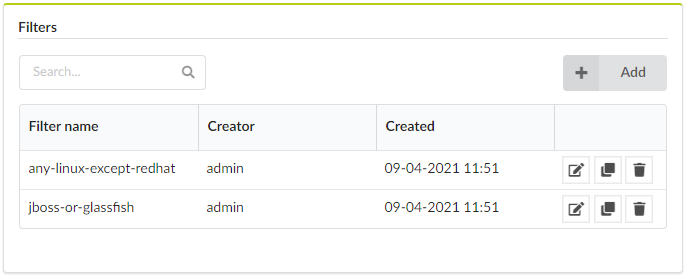
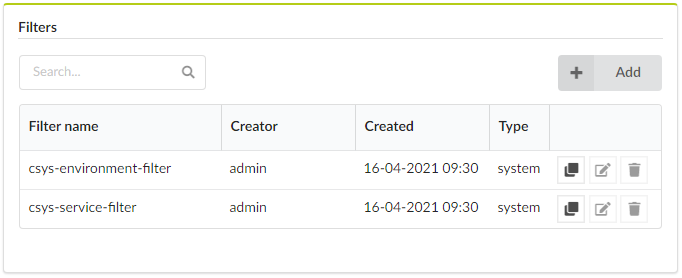
Added support for system filters

diff --git a/test/cypress/integration/widgets/filters_spec.ts b/test/cypress/integration/widgets/filters_spec.ts
@@ -21,6 +21,10 @@ describe('Filters widget', () => {
         cy.get('[name=ruleValue]').click().find('input').type(`${value}{enter}`).blur();
     }
 
+    function getFilterIdInput() {
+        return cy.contains('.field', 'Filter ID').find('input');
+    }
+
     function checkExistingRules() {
         cy.get('.fields:eq(0)').within(() => {
             cy.contains('Blueprint');
@@ -67,7 +71,28 @@ describe('Filters widget', () => {
                 expect(tableData[0]['Filter name']).to.eq(filterName);
                 expect(tableData[0].Creator).to.eq('admin');
                 expect(tableData[0].Created).not.to.be.null;
+                expect(tableData[0].Type).to.eq('user');
             });
+
+        const systemFilterName = 'csys-environment-filter';
+        cy.get('input[placeholder="Search..."]').clear().type(systemFilterName);
+        cy.get('.loading').should('not.exist');
+
+        cy.get('table')
+            .getTable()
+            .should(tableData => {
+                expect(tableData).to.have.length(1);
+                expect(tableData[0]['Filter name']).to.eq(systemFilterName);
+                expect(tableData[0].Creator).to.eq('admin');
+                expect(tableData[0].Created).not.to.be.null;
+                expect(tableData[0].Type).to.eq('system');
+            });
+
+        const disabledIconTitle = "System filter can't be edited or deleted";
+        cy.get('.edit').should('have.class', 'disabled');
+        cy.get('.edit').should('have.prop', 'title', disabledIconTitle);
+        cy.get('.trash').should('have.class', 'disabled');
+        cy.get('.trash').should('have.prop', 'title', disabledIconTitle);
     });
 
     it('should allow to add new filter', () => {
@@ -81,15 +106,18 @@ describe('Filters widget', () => {
             .deployBlueprint(blueprintId, deploymentId)
             .setLabels(deploymentId, [{ [labelKey]: 'label_value' }]);
 
+        const newFilterName = `${filterName}_added`;
         cy.contains('Add').click();
 
-        cy.contains('Save').click();
-        cy.contains('Please provide the filter ID');
-
-        const newFilterName = `${filterName}_added`;
-
         cy.get('.modal').within(() => {
-            cy.contains('.field', 'Filter ID').find('input').type(newFilterName);
+            cy.contains('Save').click();
+            cy.contains('Please provide the filter ID');
+
+            getFilterIdInput().type('csys-invalid');
+            cy.contains('Save').click();
+            cy.contains('All filters with a `csys-` prefix are reserved for internal use');
+
+            getFilterIdInput().clear().type(newFilterName);
 
             cy.get('.fields:eq(0)').within(() => typeAttributeRuleValue(blueprintId));
             cy.contains('Add new rule').click();
@@ -132,6 +160,7 @@ describe('Filters widget', () => {
                 expect(tableData[1]['Filter name']).to.eq(newFilterName);
                 expect(tableData[1].Creator).to.eq('admin');
                 expect(tableData[1].Created).not.to.be.null;
+                expect(tableData[0].Type).to.eq('user');
             });
     });
 
@@ -161,10 +190,18 @@ describe('Filters widget', () => {
         cy.get('.modal').within(() => {
             cy.contains(`Clone filter '${filterName}'`);
 
+            getFilterIdInput().should('have.value', `${filterName}_clone`);
+
+            getFilterIdInput().clear().type('csys-invalid');
+            cy.contains('Save').click();
+            cy.contains('All filters with a `csys-` prefix are reserved for internal use');
+
+            getFilterIdInput().clear().type(`${filterName}_2`);
+
             checkExistingRules();
             modifyBlueprintRule();
 
-            cy.interceptSp('PUT', `/filters/deployments/${filterName}_clone`).as('rulesRequest');
+            cy.interceptSp('PUT', `/filters/deployments/${filterName}_2`).as('rulesRequest');
             cy.contains('Save').click();
             checkRequestRules();
         });

diff --git a/widgets/filters/src/FiltersTable.tsx b/widgets/filters/src/FiltersTable.tsx
@@ -56,9 +56,10 @@ const FiltersTable: FunctionComponent<FiltersTableProps> = ({ data, toolbox, wid
                 searchable
                 sortable
             >
-                <DataTable.Column width="33%" label={i18n.t('widgets.filters.columns.name')} name="id" />
-                <DataTable.Column width="33%" label={i18n.t('widgets.filters.columns.creator')} name="created_by" />
-                <DataTable.Column width="33%" label={i18n.t('widgets.filters.columns.created')} name="created_at" />
+                <DataTable.Column width="60%" label={i18n.t('widgets.filters.columns.name')} name="id" />
+                <DataTable.Column width="40%" label={i18n.t('widgets.filters.columns.creator')} name="created_by" />
+                <DataTable.Column width="134px" label={i18n.t('widgets.filters.columns.created')} name="created_at" />
+                <DataTable.Column width="60px" label={i18n.t('widgets.filters.columns.type')} name="is_system_filter" />
                 <DataTable.Column width="112px" />
                 {data.filters.map(filter => (
                     <DataTable.Row key={filter.id}>
@@ -66,13 +67,9 @@ const FiltersTable: FunctionComponent<FiltersTableProps> = ({ data, toolbox, wid
                         <DataTable.Data>{filter.created_by}</DataTable.Data>
                         <DataTable.Data>{Time.formatTimestamp(filter.created_at)}</DataTable.Data>
                         <DataTable.Data>
-                            <Icon
-                                name="edit"
-                                link
-                                bordered
-                                title={i18n.t('widgets.filters.columns.actions.edit')}
-                                onClick={() => setFilterToEdit(filter)}
-                            />
+                            {i18n.t(`widgets.filters.type.${filter.is_system_filter ? 'system' : 'user'}`)}
+                        </DataTable.Data>
+                        <DataTable.Data>
                             <Icon
                                 name="clone"
                                 link
@@ -81,10 +78,27 @@ const FiltersTable: FunctionComponent<FiltersTableProps> = ({ data, toolbox, wid
                                 onClick={() => setFilterToClone(filter)}
                             />
                             <Icon
-                                name="trash"
-                                link
+                                name="edit"
+                                link={!filter.is_system_filter}
                                 bordered
-                                title={i18n.t('widgets.filters.columns.actions.delete')}
+                                disabled={filter.is_system_filter}
+                                title={i18n.t(
+                                    `widgets.filters.columns.actions.${
+                                        filter.is_system_filter ? 'systemFilter' : 'edit'
+                                    }`
+                                )}
+                                onClick={() => setFilterToEdit(filter)}
+                            />
+                            <Icon
+                                name="trash"
+                                link={!filter.is_system_filter}
+                                bordered
+                                disabled={filter.is_system_filter}
+                                title={i18n.t(
+                                    `widgets.filters.columns.actions.${
+                                        filter.is_system_filter ? 'systemFilter' : 'delete'
+                                    }`
+                                )}
                                 onClick={() => setFilterIdToDelete(filter.id)}
                             />
                         </DataTable.Data>

diff --git a/widgets/filters/src/types.ts b/widgets/filters/src/types.ts
@@ -10,6 +10,8 @@ export interface Filter {
     labels_filter_rules: FilterRule[];
     // eslint-disable-next-line camelcase
     attrs_filter_rules: FilterRule[];
+    // eslint-disable-next-line camelcase
+    is_system_filter: boolean;
 }
 
 export interface FilterUsage {
